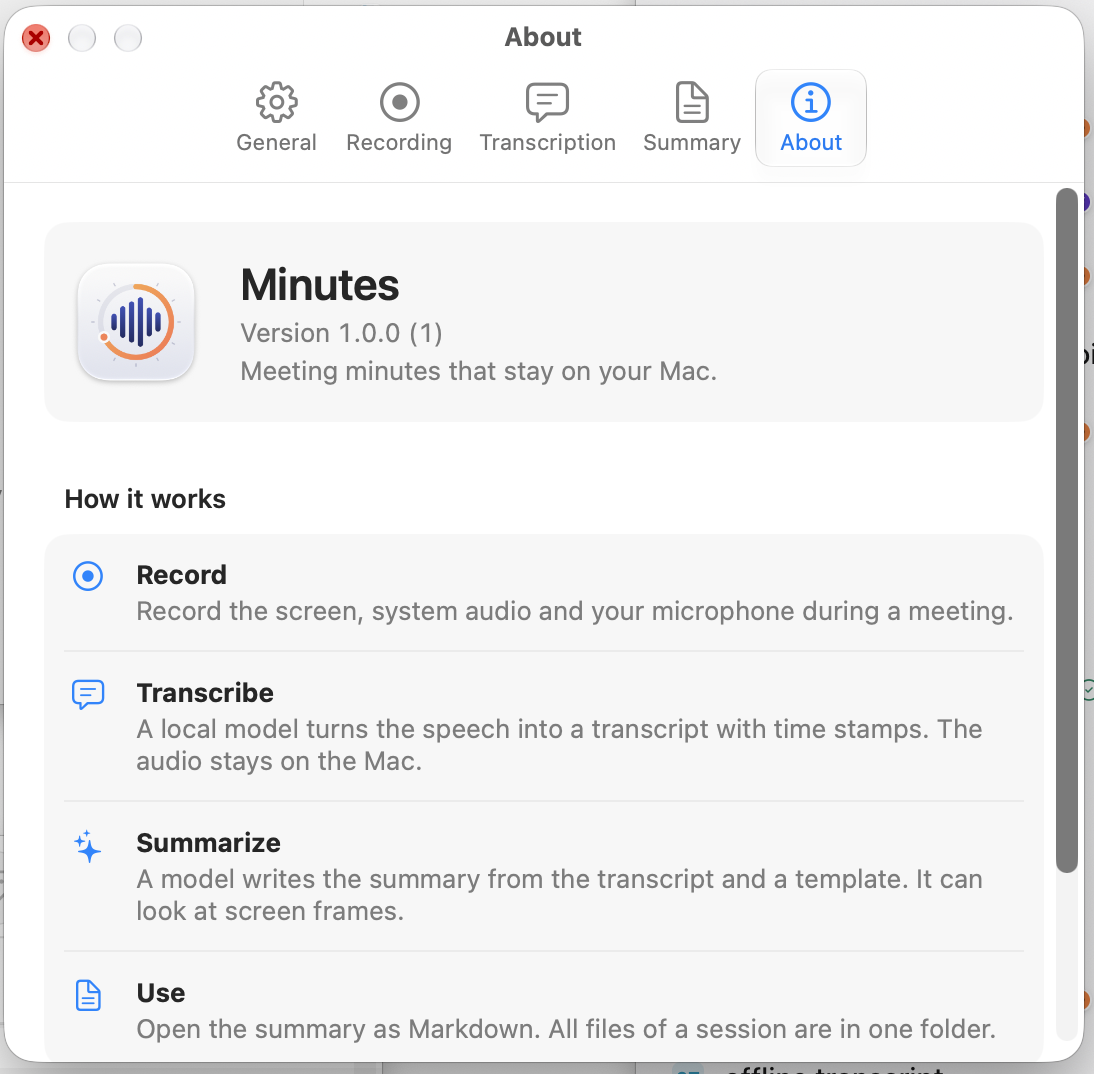
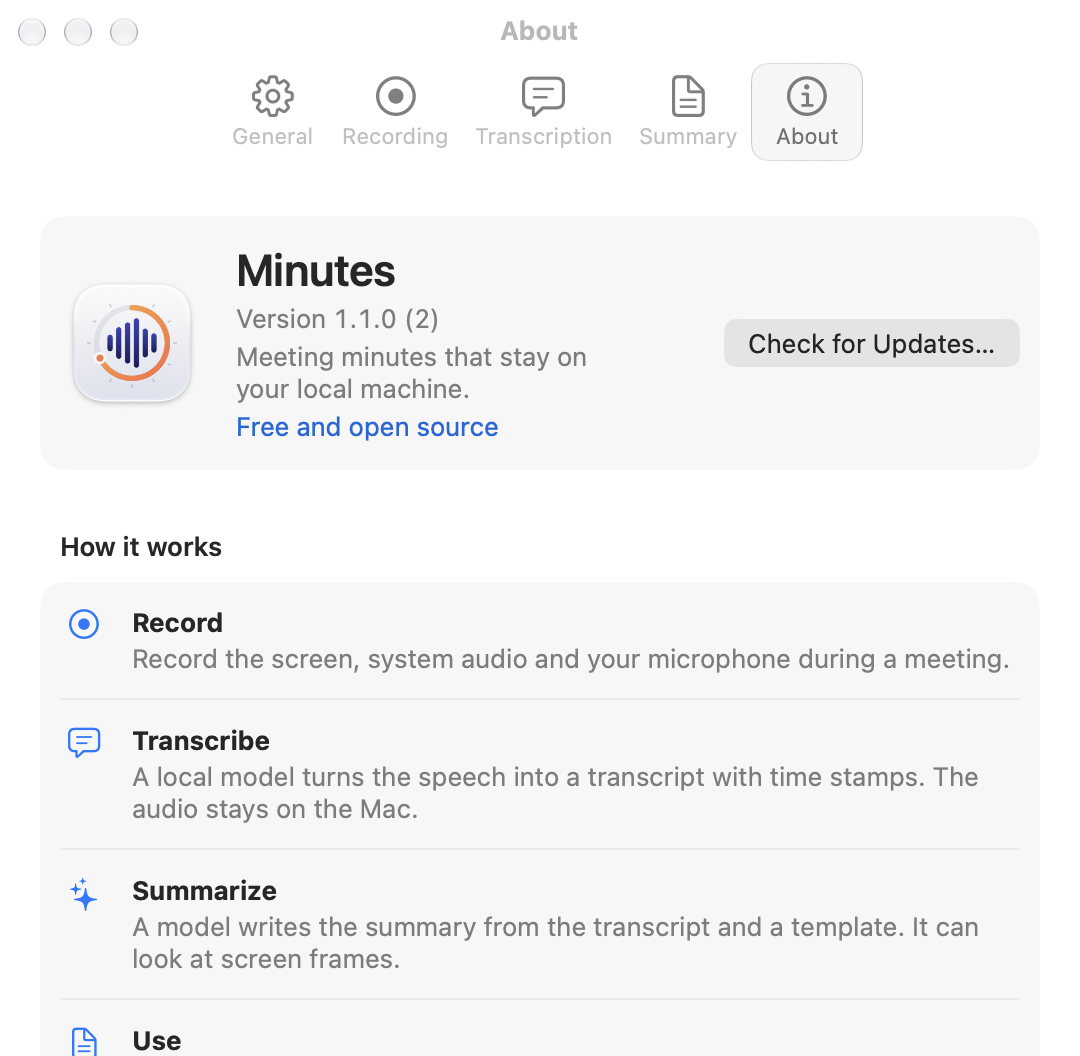
Show 1.1.0 on the website; add the release skill (#7)
* Show 1.1.0 on the website; add the release skill and version scripts

- The website and the README show Minutes 1.1.0 (EN and SK).
- .claude/skills/release/SKILL.md: the complete release procedure.
- set-version.sh, sync-site-version.sh, release_notes.py.

* Describe app updates on the website (EN and SK)

- Icon states: Update available with the blue dot.
- Settings: the app updates itself; About links.
- Install: one install, then the app updates itself.

* Show the 1.1.0 Settings in the website screenshots

General shows Updates. About shows the version, Check for Updates and the open source link.

---------

diff --git a/apps/site/index.html b/apps/site/index.html
@@ -104,6 +104,7 @@
   @media (max-width: 420px) { .menubar .btn { display: none; } }
 
   /* Menu bar icon drawings, shared by the menu bar, the hero and the state list */
+  .update-dot { width: 6px; height: 6px; border-radius: 50%; background: #0a84ff; flex: none; align-self: center; margin-top: -10px; }
   .rec-dot { width: 11px; height: 11px; border-radius: 50%; background: #ff3b30; flex: none; }
   .rec-time { font: 600 14px var(--sans); font-variant-numeric: tabular-nums; }
   @media (prefers-reduced-motion: no-preference) {
@@ -347,7 +348,7 @@
 <div class="wrap" id="top">
   <section class="hero">
     <div>
-      <div class="kicker" data-i18n="hero.eyebrow">macOS menu bar app · version 1.0.0</div>
+      <div class="kicker" data-i18n="hero.eyebrow">macOS menu bar app · version 1.1.0</div>
       <h1 data-i18n="hero.title">Meeting over.<br><em>Minutes</em> done.</h1>
       <p class="lead" data-i18n="hero.lead">Minutes records your meeting, transcribes the speech and writes the minutes from a template. Video and audio stay on your local machine.</p>
       <div class="actions">
@@ -504,6 +505,7 @@
         <li class="state"><div class="chipbar" data-icon="summary"></div><b data-i18n="ic.summary.name">Writing minutes</b><span data-i18n="ic.summary.text">The arc spins while the model writes.</span></li>
         <li class="state"><div class="chipbar" data-icon="done"></div><b data-i18n="ic.done.name">Minutes ready</b><span data-i18n="ic.done.text">A dot waits until you open the popover.</span></li>
         <li class="state"><div class="chipbar" data-icon="busy"></div><b data-i18n="ic.busy.name">Starting or saving</b><span data-i18n="ic.busy.text">The arc spins for a moment.</span></li>
+        <li class="state"><div class="chipbar" data-icon="update"></div><b data-i18n="ic.update.name">Update available</b><span data-i18n="ic.update.text">A blue dot. Click Update in the menu.</span></li>
       </ol>
     </div>
   </section>
@@ -515,6 +517,7 @@
           <div class="stamp" data-i18n="st.stamp">settings</div>
           <h2 data-i18n="st.title">Sensible defaults. You can change everything.</h2>
           <p data-i18n="st.p1">App language (English or Slovak), sessions folder, video quality, transcription model, default template and model for minutes.</p>
+          <p data-i18n="st.p2">The app updates itself. It checks for a new version once a day and installs it with one click, never during a recording or a job. Turn the checks off in General. About links to the source code, the release notes and a problem report.</p>
           <div class="tabs" role="tablist" data-i18n-aria="st.tabs" aria-label="Settings tabs">
             <button type="button" role="tab" aria-selected="true" aria-controls="set-general" id="tab-general">General</button>
             <button type="button" role="tab" aria-selected="false" aria-controls="set-recording" id="tab-recording">Recording</button>
@@ -528,7 +531,7 @@
           <figure class="shot" id="set-recording" role="tabpanel" aria-labelledby="tab-recording"><img src="images/settings-recording.png" data-i18n-alt="alt.recording" alt="Settings, Recording tab" width="1080" height="1056" loading="lazy"><figcaption>Recording</figcaption></figure>
           <figure class="shot" id="set-transcription" role="tabpanel" aria-labelledby="tab-transcription"><img src="images/settings-transcription.png" data-i18n-alt="alt.transcription" alt="Settings, Transcription tab" width="1080" height="1056" loading="lazy"><figcaption>Transcription</figcaption></figure>
           <figure class="shot" id="set-summary" role="tabpanel" aria-labelledby="tab-summary"><img src="images/settings-summary.png" data-i18n-alt="alt.summary" alt="Settings, Summary tab" width="1080" height="1056" loading="lazy"><figcaption>Summary</figcaption></figure>
-          <figure class="shot" id="set-about" role="tabpanel" aria-labelledby="tab-about"><img src="images/settings-about.png" data-i18n-alt="alt.about" alt="Settings, About tab" width="1094" height="1074" loading="lazy"><figcaption>About</figcaption></figure>
+          <figure class="shot" id="set-about" role="tabpanel" aria-labelledby="tab-about"><img src="images/settings-about.png" data-i18n-alt="alt.about" alt="Settings, About tab" width="1080" height="1056" loading="lazy"><figcaption>About</figcaption></figure>
         </div>
       </div>
     </div>
@@ -542,13 +545,14 @@
         <div>
         <h3 class="sub" data-i18n="in.dl">Download the app</h3>
         <ol class="steps" data-i18n="in.steps">
-          <li>Download <a href="https://github.com/softverse-space/minutes/releases/latest"><code>Minutes-1.0.0.dmg</code></a> from GitHub. Open it and move Minutes to Applications.</li>
+          <li>Download <a href="https://github.com/softverse-space/minutes/releases/latest"><code>Minutes-1.1.0.dmg</code></a> from GitHub. Open it and move Minutes to Applications.</li>
           <li>Open Minutes. The icon appears in the menu bar.</li>
           <li>Click the icon and then <b>Allow</b>. Allow Minutes in System Settings → Privacy &amp; Security → Screen &amp; System Audio Recording. Restart the app.</li>
           <li>In Settings → Transcription, click <b>Download model</b>. It downloads once.</li>
           <li>Install OpenCode and set up a model: a local one (for example Ollama), your company server or a cloud provider:
 <pre>brew install opencode ffmpeg</pre></li>
         </ol>
+        <p class="note" data-i18n="in.update">You install the app one time. From version 1.1.0, Minutes updates itself: a blue dot next to the menu bar icon tells you about a new version.</p>
         </div>
         <div class="req">
           <h3 data-i18n="in.req.title">What you need</h3>
@@ -559,7 +563,7 @@
             <tr><th>Network</th><td>none for local models; else what your model needs</td></tr>
             <tr><th>Tools</th><td>OpenCode; optionally Claude Code, Codex and ffmpeg</td></tr>
           </table>
-          <a class="btn primary" href="https://github.com/softverse-space/minutes/releases/latest"><span data-i18n="cta.download">Download Minutes 1.0.0</span> <span class="arr" aria-hidden="true">↓</span></a>
+          <a class="btn primary" href="https://github.com/softverse-space/minutes/releases/latest"><span data-i18n="cta.download">Download Minutes 1.1.0</span> <span class="arr" aria-hidden="true">↓</span></a>
         </div>
       </div>
       <div class="build" id="build">
@@ -608,7 +612,7 @@
       <div class="finale">
         <div class="sheet">
           <div class="stamp" data-i18n="cl.stamp">minutes of this page</div>
-          <h2>Minutes 1.0.0</h2>
+          <h2>Minutes 1.1.0</h2>
           <dl data-i18n="cl.items">
             <dt>decision</dt><dd>Minutes takes the minutes. The data stays on your local machine.</dd>
             <dt>task</dt><dd>Install Minutes – you – before your next meeting.</dd>
@@ -628,7 +632,7 @@
 <footer>
   <div class="wrap">
     <span>Minutes · Softverse, spol. s r. o.</span>
-    <span data-i18n="ft.version">open source · version 1.0.0</span>
+    <span data-i18n="ft.version">open source · version 1.1.0</span>
     <a href="https://github.com/softverse-space/minutes" data-i18n="ft.source">Source code on GitHub</a>
   </div>
 </footer>
@@ -657,6 +661,7 @@
         const id = 'gap' + (++maskId);
         return svg(`<mask id="${id}"><rect width="18" height="18" fill="#fff"/><circle cx="14.6" cy="3.4" r="4.4" fill="#000"/></mask><g mask="url(#${id})">${RING()}${STAR}</g><circle cx="14.6" cy="3.4" r="3" fill="currentColor"/>`);
       }
+      case 'update': return svg(RING() + BARS) + '<span class="update-dot"></span>';
       default: return svg(RING() + BARS);
     }
   }
@@ -771,8 +776,8 @@
     'skip': 'Preskočiť na obsah',
     'nav.how': 'Ako to funguje', 'nav.privacy': 'Súkromie', 'nav.install': 'Inštalácia', 'nav.faq': 'Otázky',
     'cta.install': 'Nainštalovať',
-    'cta.download': 'Stiahnuť Minutes 1.0.0',
-    'hero.eyebrow': 'aplikácia do menu baru macOS · verzia 1.0.0',
+    'cta.download': 'Stiahnuť Minutes 1.1.0',
+    'hero.eyebrow': 'aplikácia do menu baru macOS · verzia 1.1.0',
     'hero.title': 'Porada skončí.<br><em>Zápis</em> je hotový.',
     'hero.lead': 'Minutes nahrá stretnutie, prepíše reč a pripraví zápis podľa šablóny. Video ani zvuk neopustia váš lokálny počítač.',
     'hero.meta': 'Apple Silicon · macOS 15 a novší · SK, CS, EN · <a href="https://github.com/softverse-space/minutes">open source na GitHube</a>',
@@ -826,18 +831,21 @@
     'ic.summary.name': 'Píše zápis', 'ic.summary.text': 'Oblúk sa točí, kým model píše.',
     'ic.done.name': 'Zápis je hotový', 'ic.done.text': 'Bodka počká, kým otvoríte popover.',
     'ic.busy.name': 'Spúšťa alebo ukladá', 'ic.busy.text': 'Oblúk sa na chvíľu točí.',
+    'ic.update.name': 'Nová verzia', 'ic.update.text': 'Modrá bodka. V menu kliknite na Update.',
     'st.stamp': 'nastavenia',
     'st.title': 'Rozumné predvoľby, všetko sa dá zmeniť.',
     'st.p1': 'Jazyk aplikácie (English alebo Slovenčina), priečinok sessions, kvalita videa, model na prepis, predvolená šablóna a model pre zápis.',
+    'st.p2': 'Aplikácia sa aktualizuje sama. Raz denne skontroluje novú verziu a nainštaluje ju jedným kliknutím, nikdy nie počas nahrávania ani počas úlohy. Kontrolu vypnete v General. About obsahuje odkazy na zdrojový kód, poznámky k vydaniu a hlásenie problému.',
     'st.tabs': 'Záložky nastavení',
     'alt.general': 'Nastavenia, záložka General', 'alt.recording': 'Nastavenia, záložka Recording',
     'alt.transcription': 'Nastavenia, záložka Transcription',
     'alt.summary': 'Nastavenia, záložka Summary', 'alt.about': 'Nastavenia, záložka About',
     'in.stamp': 'inštalácia',
     'in.title': 'Päť krokov k prvému zápisu.',
-    'in.steps': '<li>Stiahnite <a href="https://github.com/softverse-space/minutes/releases/latest"><code>Minutes-1.0.0.dmg</code></a> z GitHubu. Otvorte ho a presuňte Minutes do Applications.</li><li>Spustite Minutes. Ikona sa ukáže v menu bare.</li><li>Kliknite na ikonu a na <b>Allow</b>. Povoľte Minutes v System Settings → Privacy &amp; Security → Screen &amp; System Audio Recording. Aplikáciu reštartujte.</li><li>V Settings → Transcription kliknite na <b>Download model</b>. Stiahne sa raz.</li><li>Nainštalujte OpenCode a nastavte model: lokálny (napríklad Ollama), firemný server alebo cloud:<pre>brew install opencode ffmpeg</pre></li>',
+    'in.steps': '<li>Stiahnite <a href="https://github.com/softverse-space/minutes/releases/latest"><code>Minutes-1.1.0.dmg</code></a> z GitHubu. Otvorte ho a presuňte Minutes do Applications.</li><li>Spustite Minutes. Ikona sa ukáže v menu bare.</li><li>Kliknite na ikonu a na <b>Allow</b>. Povoľte Minutes v System Settings → Privacy &amp; Security → Screen &amp; System Audio Recording. Aplikáciu reštartujte.</li><li>V Settings → Transcription kliknite na <b>Download model</b>. Stiahne sa raz.</li><li>Nainštalujte OpenCode a nastavte model: lokálny (napríklad Ollama), firemný server alebo cloud:<pre>brew install opencode ffmpeg</pre></li>',
     'in.req.title': 'Čo potrebujete',
     'in.dl': 'Stiahnite si aplikáciu',
+    'in.update': 'Aplikáciu nainštalujete raz. Od verzie 1.1.0 sa Minutes aktualizuje sama: modrá bodka vedľa ikony v menu bare oznámi novú verziu.',
     'bd.title': 'Alebo si ju zostavte sami.',
     'bd.p1': 'Minutes je open source. Naklonujte repozitár a zostavte aplikáciu v Xcode. Potrebujete <b>Xcode 26</b> alebo novší a <b>XcodeGen</b>.',
     'bd.p2': 'Váš build má vlastný podpis. macOS si znova vypýta povolenie nahrávať obrazovku.',
@@ -850,7 +858,7 @@
     'faq.items': '<details><summary>Funguje to bez internetu?</summary><p>Nahrávanie a lokálny prepis áno. Zápis tiež, s lokálnym modelom v OpenCode (napríklad Ollama).</p></details><details><summary>Ako prepnem aplikáciu do slovenčiny?</summary><p>Settings → General → App language → Slovenčina. Potom kliknite na Restart now.</p></details><details><summary>Ako pridám vlastnú šablónu?</summary><p>Skopírujte <code>standard.md</code>, zmeňte <code>id</code>, názov a pokyn. Uložte ju do priečinka šablón z Settings → Summary.</p></details><details><summary>Prepis je v zlom jazyku.</summary><p>V Settings → Transcription nastavte jazyk reči ručne a spustite prepis znova.</p></details><details><summary>Ako uvoľním miesto na disku?</summary><p>V detaile session kliknite na Free up. Staré videá môže aplikácia mazať sama (Settings → Recording).</p></details><details><summary>Aplikácia hlási, že nemá povolenie nahrávať obrazovku.</summary><p>Povoľte Minutes v System Settings → Privacy &amp; Security → Screen &amp; System Audio Recording a aplikáciu reštartujte.</p></details><details><summary>Ako aktualizujem Minutes?</summary><p>Od verzie 1.1.0 Minutes raz denne skontroluje aktualizácie. Modrá bodka vedľa ikony v menu bare oznámi novú verziu. V menu kliknite na Update. Môžete tiež kliknúť na Check for Updates… v Settings → About. Počas nahrávania ani počas úlohy sa aplikácia nereštartuje. Z verzie 1.0.0 si nový <code>.dmg</code> stiahnite raz ručne.</p></details><details><summary>Ako nahlásim problém?</summary><p>V Settings → About kliknite na Report a problem on GitHub. Hlásenie dostane verziu aplikácie a macOS. Nepripájajte nahrávky, prepisy, zápisy ani snímky obrazovky zo skutočných stretnutí.</p></details>',
     'cl.stamp': 'zápis z tejto stránky',
     'cl.items': '<dt>rozhodnutie</dt><dd>Stretnutia zapisuje Minutes. Dáta zostávajú na vašom lokálnom počítači.</dd><dt>úloha</dt><dd>Nainštalovať Minutes – vy – pred ďalšou poradou.</dd><dt>otvorené</dt><dd>Ktorú šablónu použijete prvú?</dd>',
-    'ft.version': 'open source · verzia 1.0.0',
+    'ft.version': 'open source · verzia 1.1.0',
     'ft.source': 'Zdrojový kód na GitHube',
   };
 

diff --git a/apps/macos/scripts/release_notes.py b/apps/macos/scripts/release_notes.py
@@ -1,0 +1,33 @@
+#!/usr/bin/env python3
+"""Writes the GitHub release notes for one version from CHANGELOG.md.
+
+Usage: release_notes.py <CHANGELOG.md> <version> <output.md>
+
+Relative links (../../docs/...) become absolute GitHub links.
+"""
+import re
+import sys
+
+REPO = "https://github.com/softverse-space/minutes"
+
+
+def main() -> None:
+    if len(sys.argv) != 4:
+        sys.exit(__doc__)
+    changelog, version, output = sys.argv[1:]
+    text = open(changelog, encoding="utf-8").read()
+    match = re.search(rf"^## {re.escape(version)}\b.*?$(.*?)(?=^## |\Z)", text, re.M | re.S)
+    if not match:
+        sys.exit(f"CHANGELOG.md has no section '## {version}'.")
+    body = match.group(1).strip()
+    body = re.sub(r"\]\((?:\.\./)+([^)]+)\)", rf"]({REPO}/blob/main/\1)", body)
+    body += (
+        "\n\n### Install\n"
+        f"- Download `Minutes-{version}.dmg`, open it and move Minutes to Applications.\n"
+        "- From version 1.1.0, the app updates itself. Version 1.0.0 needs one manual install.\n"
+    )
+    open(output, "w", encoding="utf-8").write(body + "\n")
+
+
+if __name__ == "__main__":
+    main()

diff --git a/.claude/skills/release/SKILL.md b/.claude/skills/release/SKILL.md
@@ -1,0 +1,114 @@
+---
+name: release
+description: Release a new version of Minutes end to end – version bump, CHANGELOG, signed and notarized .dmg, GitHub release, Sparkle appcast, website and README, checks after publication. Use when the user says "we release a new version", "new release", "vydávame novú verziu", "vydaj novú verziu", "spravme release" or asks to publish version X.Y.Z.
+---
+
+# Release a new version of Minutes
+
+Follow every step in sequence. Do not skip a check. Decisions: ADR-0011, ADR-0021, ADR-0028, ADR-0031.
+
+## Rules
+
+- **The user runs the steps that use the signing keys:** `release.sh` (Developer ID, notarization), `notarytool`, `stapler`, `appcast.sh` (Sparkle EdDSA key in the Keychain). Give the user the exact command, one command per message block. Never put placeholders like `<notes>` in a command: zsh reads `<` and `>` as redirections.
+- Never read, print or export a private key, a notary password or a Keychain item.
+- `main` is protected. Every change goes through a pull request. The user merges it.
+- Releases are local on the author's Mac (ADR-0031). There is no CI release.
+- All repository text is in English. The website changes in English and Slovak.
+- Run commands from the repository root unless a step says otherwise.
+
+## Step 0 – Preconditions
+
+1. `git switch main && git pull`. The working tree must be clean.
+2. `gh release list -L 3` – find the last released version.
+3. Read `apps/macos/CHANGELOG.md`. The section `## Unreleased` must exist and describe all changes since the last release. Compare it with `git log v<last>..main --oneline`. Add missing user-visible changes (English, STE style).
+4. Choose the version (semantic versioning). New features: minor. Only fixes: patch. Ask the user to confirm the version.
+5. Run the tests and the Debug build:
+   ```
+   cd apps/macos/OMSCore && swift test
+   cd apps/macos && xcodegen generate && xcodebuild -project OfflineMeetingSummary.xcodeproj -scheme OfflineMeetingSummary -configuration Debug -derivedDataPath build/DerivedData build
+   ```
+   Stop on a failure or a new warning.
+
+## Step 1 – Prepare the version (PR "Prepare X.Y.Z")
+
+1. `git switch -c release/prepare-X.Y.Z`
+2. `apps/macos/scripts/set-version.sh X.Y.Z` – sets `MARKETING_VERSION`, increases `CURRENT_PROJECT_VERSION` by 1, renames `## Unreleased` to `## X.Y.Z – <date>`.
+3. Add an entry to `wiki/log.md` (`## [date] release | Minutes X.Y.Z`).
+4. Commit, push, `gh pr create`, link the PR. Ask the user to merge it.
+5. After the merge: `git switch main && git pull`.
+
+Do not change the website or the README version yet. The website must not name a version that cannot be downloaded.
+
+## Step 2 – Build, sign, notarize (the user runs it)
+
+1. The user runs:
+   ```
+   apps/macos/scripts/release.sh
+   ```
+2. Check the output: `ARCHIVE SUCCEEDED`, `EXPORT SUCCEEDED`, `Authority=Developer ID Application`, `Update feed: https://softverse-space.github.io/minutes/appcast.xml`, `status: Accepted`, `source=Notarized Developer ID`.
+3. **If notarization fails with a server error (for example 503),** the `.dmg` is signed but not notarized. Do not upload it. The user waits and runs these commands one by one:
+   ```
+   xcrun notarytool submit apps/macos/build/release/Minutes-X.Y.Z.dmg --keychain-profile minutes-notary --wait
+   xcrun stapler staple apps/macos/build/release/Minutes-X.Y.Z.dmg
+   spctl --assess --type open --context context:primary-signature --verbose apps/macos/build/release/Minutes-X.Y.Z.dmg
+   shasum -a 256 apps/macos/build/release/Minutes-X.Y.Z.dmg | tee apps/macos/build/release/Minutes-X.Y.Z.dmg.sha256
+   ```
+   The checksum must come after `stapler`, because `stapler` changes the file.
+4. If notarization is `Invalid`, get the log (`xcrun notarytool log <id> --keychain-profile minutes-notary`) and fix the cause. Do not continue.
+
+## Step 3 – GitHub release
+
+1. Write the release notes:
+   ```
+   python3 -I apps/macos/scripts/release_notes.py apps/macos/CHANGELOG.md X.Y.Z apps/macos/build/release/notes-X.Y.Z.md
+   ```
+2. Check that `apps/macos/build/release/Minutes-X.Y.Z.dmg` and `.sha256` exist and that `spctl` accepts the `.dmg`.
+3. Ask the user to confirm, then create the release (the tag points to the current `main`):
+   ```
+   gh release create vX.Y.Z apps/macos/build/release/Minutes-X.Y.Z.dmg apps/macos/build/release/Minutes-X.Y.Z.dmg.sha256 --target main --title "Minutes X.Y.Z" --notes-file apps/macos/build/release/notes-X.Y.Z.md
+   ```
+4. Check: `gh release view vX.Y.Z --json assets` – the SHA-256 digest of the `.dmg` equals the local `.sha256`. The release is not a draft and not a pre-release, so `releases/latest` points to it.
+
+## Step 4 – Appcast (the user runs it)
+
+1. The user runs (macOS can ask for Keychain access to the Sparkle key):
+   ```
+   apps/macos/scripts/appcast.sh
+   ```
+2. Check `apps/site/appcast.xml`:
+   - `xmllint --noout apps/site/appcast.xml`
+   - the new item is first, `sparkle:version` is the new build, `shortVersionString` is X.Y.Z,
+   - `length` equals the size of the `.dmg` on GitHub,
+   - the EdDSA signature is valid for `SPARKLE_PUBLIC_ED_KEY` in `apps/macos/project.yml` (verify with CryptoKit `Curve25519.Signing.PublicKey.isValidSignature` in a scratch Swift script),
+   - the release notes HTML is complete.
+
+## Step 5 – Website and README (PR "Publish X.Y.Z")
+
+1. `git switch -c release/publish-X.Y.Z` (keep the appcast change).
+2. `apps/macos/scripts/sync-site-version.sh` – changes the version in `apps/site/index.html` (English and Slovak) and in `README.md`: hero, download button, install step, closing section, footer, badge.
+3. Read the list of remaining old version numbers that the script prints. Change a place only if it names the current version. Sentences about history ("From version 1.1.0, …") stay.
+4. Check the website for other texts that the release makes wrong: new features in the guide, FAQ, screenshots, requirements. Change every text in English and in the Slovak `SK` dictionary.
+5. Commit `apps/site/appcast.xml`, `apps/site/index.html`, `README.md`. Push, `gh pr create`, link the PR. Ask the user to merge it. The appcast and the website go public together.
+
+## Step 6 – Checks after publication
+
+1. `gh run list --workflow pages.yml -L 1` – the Pages deployment succeeded.
+2. `curl -s https://softverse-space.github.io/minutes/appcast.xml` contains `<sparkle:shortVersionString>X.Y.Z</sparkle:shortVersionString>`.
+3. `curl -s https://softverse-space.github.io/minutes/ | grep -c "X.Y.Z"` – the website shows the new version.
+4. `curl -sIL -o /dev/null -w "%{http_code}\n" https://github.com/softverse-space/minutes/releases/download/vX.Y.Z/Minutes-X.Y.Z.dmg` gives 200.
+5. Ask the user to check the update on a Mac with the previous version: Settings → About → Check for Updates…. Only the app in `/Applications` may run. A Debug build with the same bundle ID can take the Screen Recording permission. After the update, check that recording still has the permission.
+6. Delete the release work files that are not needed: keep `build/release/Minutes-X.Y.Z.dmg*` only until the release is checked.
+7. `git switch main && git pull`. Report to the user: version, release URL, both PRs, result of each check.
+
+## Checklist (copy into the reply and tick off)
+
+- [ ] Tests and Debug build pass
+- [ ] CHANGELOG complete, version confirmed by the user
+- [ ] PR "Prepare X.Y.Z" merged
+- [ ] `.dmg` signed, notarized, stapled, checksum after stapling
+- [ ] GitHub release vX.Y.Z with `.dmg` and `.sha256`, digest matches
+- [ ] Appcast item valid, EdDSA signature valid
+- [ ] Website and README show X.Y.Z (EN and SK)
+- [ ] PR "Publish X.Y.Z" merged, Pages deployed
+- [ ] Live appcast and website show X.Y.Z, download gives 200
+- [ ] Update tested from the previous version, permissions kept

diff --git a/README.md b/README.md
@@ -12,9 +12,9 @@
 Minutes records your meeting, transcribes the speech and writes the minutes from a template.<br>
 Video and audio stay on your local machine.
 
-![macOS 15+](https://img.shields.io/badge/macOS-15%2B-15173d) ![Apple Silicon](https://img.shields.io/badge/Apple%20Silicon-M1%2B-15173d) ![Swift](https://img.shields.io/badge/Swift-SwiftUI-ff6b4a) ![version](https://img.shields.io/badge/version-1.0.0-ffb347) ![license](https://img.shields.io/badge/license-Apache--2.0-15173d)
+![macOS 15+](https://img.shields.io/badge/macOS-15%2B-15173d) ![Apple Silicon](https://img.shields.io/badge/Apple%20Silicon-M1%2B-15173d) ![Swift](https://img.shields.io/badge/Swift-SwiftUI-ff6b4a) ![version](https://img.shields.io/badge/version-1.1.0-ffb347) ![license](https://img.shields.io/badge/license-Apache--2.0-15173d)
 
-**[Download Minutes 1.0.0](https://github.com/softverse-space/minutes/releases/latest)** · [Website and user guide](https://softverse-space.github.io/minutes/) · [Build from source](#build-from-source) · [Changelog](apps/macos/CHANGELOG.md) · [Decisions (ADR)](docs/adr/README.md)
+**[Download Minutes 1.1.0](https://github.com/softverse-space/minutes/releases/latest)** · [Website and user guide](https://softverse-space.github.io/minutes/) · [Build from source](#build-from-source) · [Changelog](apps/macos/CHANGELOG.md) · [Decisions (ADR)](docs/adr/README.md)
 
 </div>
 
@@ -140,7 +140,7 @@ App language (English or Slovak), sessions folder, video quality, transcription 
 
 ### Download the app
 
-1. Download [`Minutes-1.0.0.dmg`](https://github.com/softverse-space/minutes/releases/latest) from GitHub. Open it and move Minutes to Applications.
+1. Download [`Minutes-1.1.0.dmg`](https://github.com/softverse-space/minutes/releases/latest) from GitHub. Open it and move Minutes to Applications.
 2. Open Minutes. The icon appears in the menu bar.
 3. Click the icon and then **Allow**. Allow Minutes in System Settings → Privacy & Security → Screen & System Audio Recording. Restart the app.
 4. In Settings → Transcription, click **Download model**. It downloads once.

diff --git a/apps/macos/README.md b/apps/macos/README.md
@@ -28,6 +28,8 @@ Logic tests: `cd apps/macos/OMSCore && swift test`.
 
 `apps/macos/scripts/release.sh` makes the release ([ADR-0021](../../docs/adr/0021-first-release-packaging.md)). The result is `apps/macos/build/release/Minutes-<version>.dmg`.
 
+The complete procedure, with the version change, the website and the checks, is the project skill [`.claude/skills/release/SKILL.md`](../../.claude/skills/release/SKILL.md). Ask Claude Code "release a new version". Helper scripts: `set-version.sh` (version and build), `release_notes.py` (GitHub release notes), `sync-site-version.sh` (website and README).
+
 1. Increase `MARKETING_VERSION` and `CURRENT_PROJECT_VERSION` in `project.yml`.
 2. Add the changes to [CHANGELOG.md](CHANGELOG.md).
 3. Create the notarization profile one time. Enter the app-specific password yourself. Do not save it anywhere:

diff --git a/wiki/log.md b/wiki/log.md
@@ -226,3 +226,8 @@
 ## [2026-11-17] decision | App updates – local releases
 - The user decided: releases stay local on the author's Mac. The team has one person.
 - GitHub Actions releases are possible later with a new ADR (environment with a reviewer, protected tags, 2FA, pinned actions). Changed: docs/adr/0031-app-updates-sparkle.md.
+
+## [2026-11-17] release | Minutes 1.1.0 and the release skill
+- Minutes 1.1.0 (build 2) is on GitHub. The appcast announces it.
+- The website and the README showed 1.0.0 after the release. Fixed: they show 1.1.0.
+- Added: the project skill `.claude/skills/release/SKILL.md` (complete release procedure), `scripts/set-version.sh`, `scripts/sync-site-version.sh`, `scripts/release_notes.py`.
